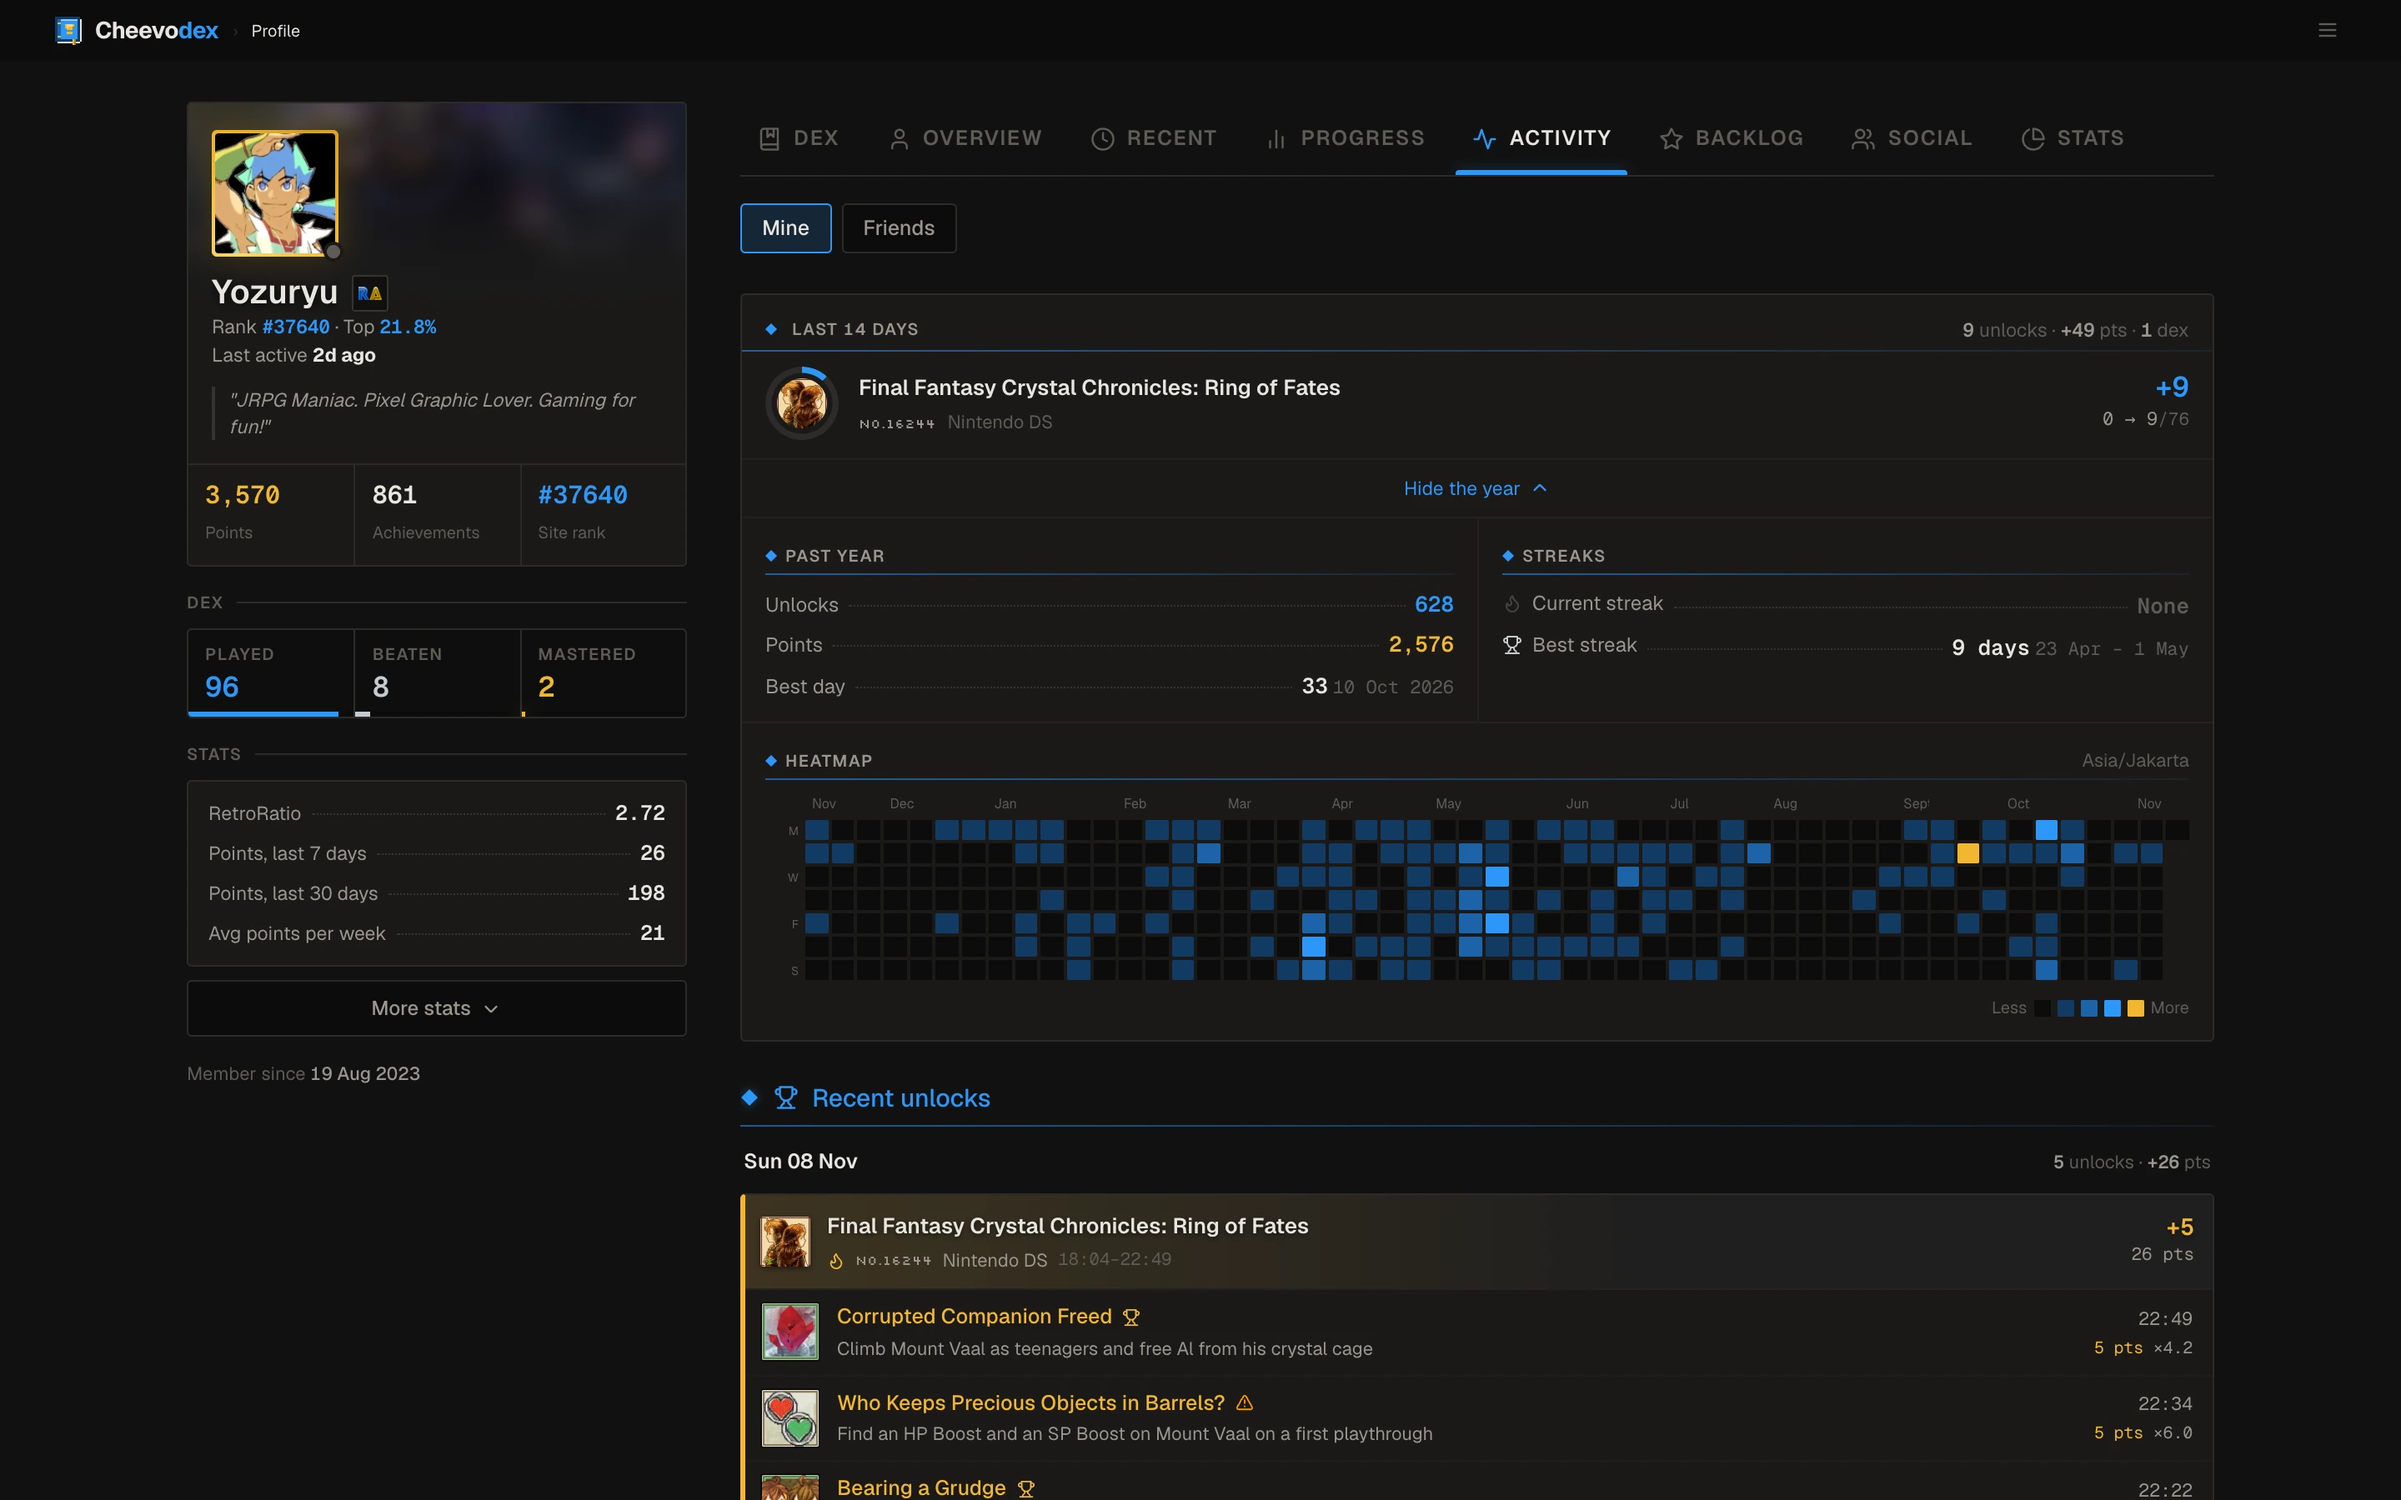
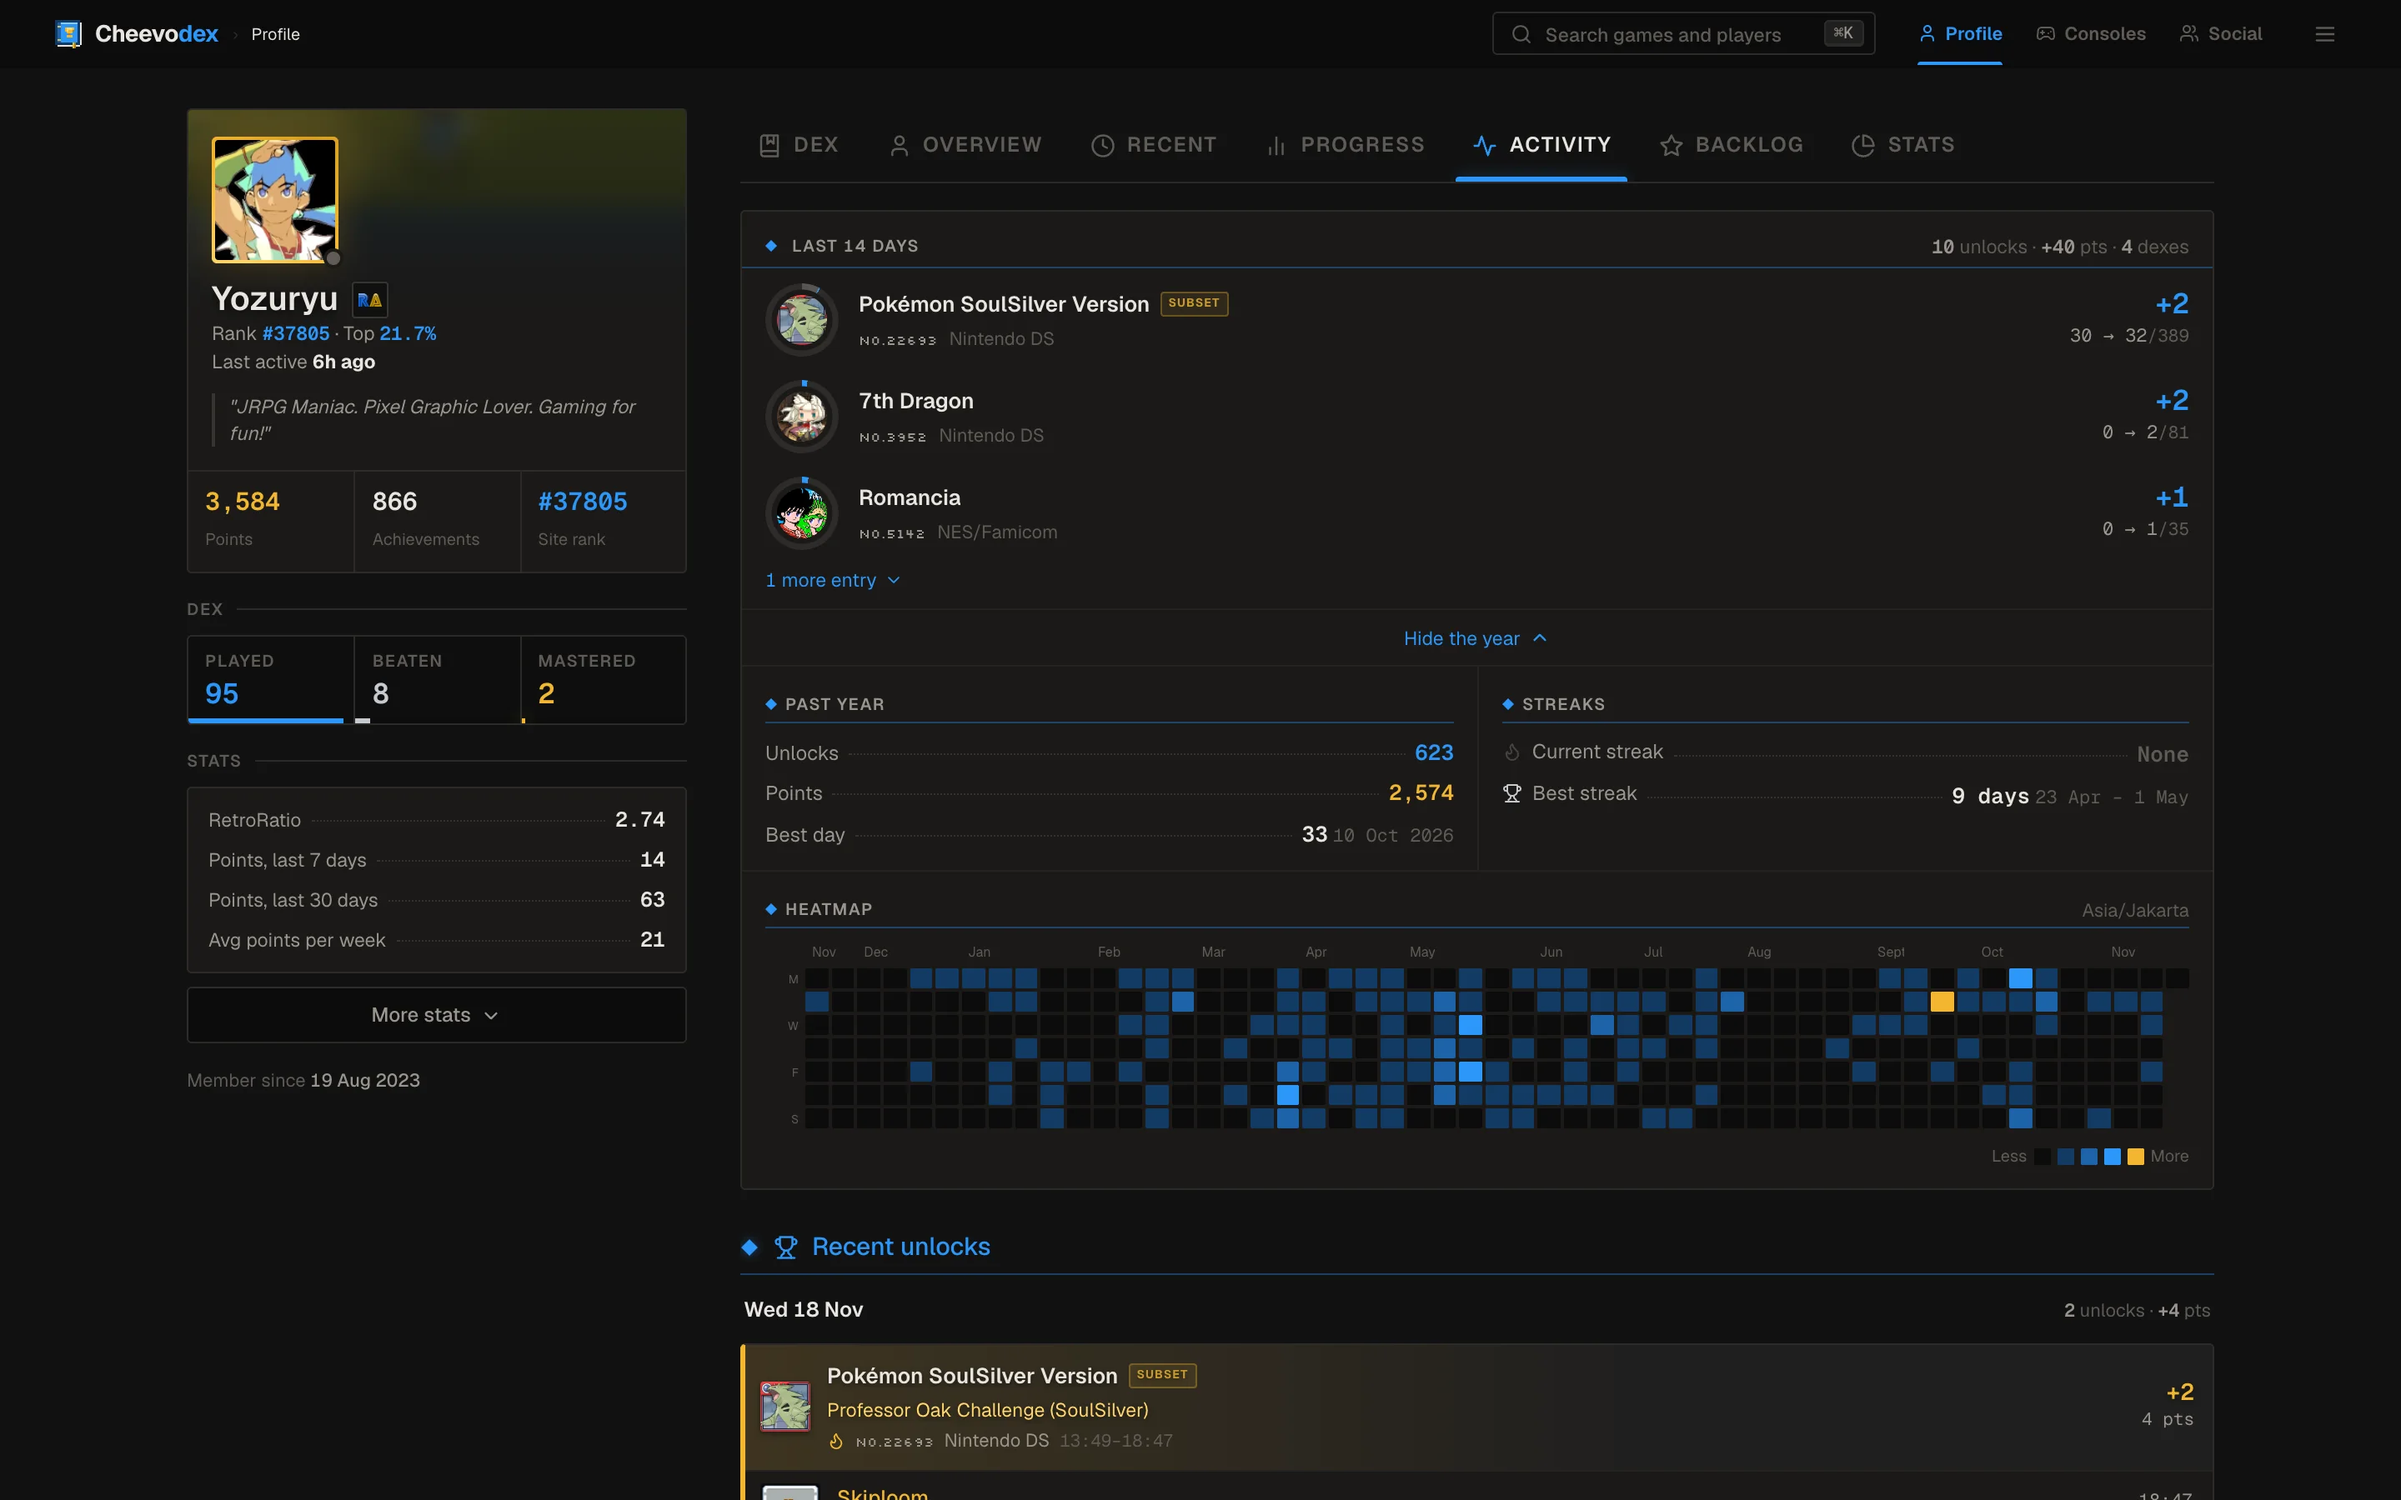
docs: README for the new Social, search and Consoles; fresh posters
- README feature list: Social with swipeable tabs and the you-vs-them
  compare, search over consoles too (ps2, gba) with removable recents,
  Consoles as saved one at a time, Install from the app's menu
- Posters rebuilt from fresh screenshots (new top bar and tabs, no
  Mine / Friends); the contents list says Consoles instead of Search
- posters.js: friends shots from the Social page, new compare / people /
  consoles / console shots, the friends poster placed from the layout the
  capture measures (d-friends.json) with labels kept apart, the installed
  Chrome used when there is one

Claude-Session: https://claude.ai/code/session_01S8fGnDU1gcFfcuuzHRjaTh

diff --git a/scripts/posters.js b/scripts/posters.js
@@ -18,8 +18,11 @@
  *   RA_API_KEY   Your RetroAchievements web API key (stays on this machine)
  *   RA_GAME_ID   A game you have progress in, for the dex record (default: your most recent game)
  *   ONLY         Comma-separated shot names to retake (default: all)
+ *   CHROME_PATH  The browser to drive (default: the installed Google Chrome, else puppeteer's download)
  *
- * Output: docs/images/shots/*.webp (screenshots, 2x) and docs/images/{hero,record,friends,year,contents}.jpg (posters)
+ * Output: docs/images/shots/*.webp (screenshots, 2x) and docs/images/{hero,record,friends,year,contents}.jpg (posters).
+ * d-friends also writes d-friends.json: where the friend row, the feed and the details the poster labels sit on the
+ * Social page (CSS pixels), so the friends poster follows the page's layout instead of fixed positions.
  */
 
 const puppeteer = require('puppeteer');
@@ -49,7 +52,9 @@ async function capture(browser) {
         ['dex', '/profile/?tab=dex', PHONE], ['activity', '/profile/?tab=activity', PHONE], ['backlog', '/profile/?tab=backlog', PHONE],
         ['overview', '/profile/?tab=overview', PHONE], ['d-dex', '/profile/?tab=dex', DESK], ['d-activity', '/profile/?tab=activity', DESK],
         ['d-stats', '/profile/?tab=stats', DESK], ['game', null, PHONE], ['d-game', null, DESK],
-        ['friends', '/profile/?tab=activity&view=friends', PHONE], ['d-friends', '/profile/?tab=activity&view=friends', DESK],
+        ['friends', '/social/', PHONE], ['d-friends', '/social/', DESK],
+        ['compare', '/social/?view=following', PHONE], ['social-people', '/social/?view=following', PHONE],
+        ['consoles', '/console/', PHONE], ['console', '/console/?id=21', PHONE], ['d-console', '/console/?id=21', DESK],
         ['stats', '/profile/?tab=stats', PHONE], ['d-backlog', '/profile/?tab=backlog', DESK], ['d-overview', '/profile/?tab=overview', DESK],
     ].filter(([name]) => !ONLY || ONLY.includes(name));
     fs.mkdirSync(SHOTS, { recursive: true });
@@ -67,8 +72,29 @@ async function capture(browser) {
         const url = BASE + (route || `/game/?id=${game}&tab=achievements`);
         await page.goto(url, { waitUntil: 'networkidle0', timeout: 120000 });
         await new Promise(r => setTimeout(r, 2500));
-        if (name.endsWith('friends')) await page.waitForFunction(() => !document.querySelector('.animate-spin'), { timeout: 240000 });   // every friend loaded
-        if (name === 'activity' || name === 'backlog' || name === 'friends' || name === 'stats') {   // phones: start at the tab's content, under the profile header
+        if (name.endsWith('friends')) await page.waitForFunction(() => !document.querySelector('.animate-spin') && document.querySelector('.fposts'), { timeout: 240000 });   // every friend loaded
+        if (name === 'd-friends') {   // where the poster's pieces and labels are, in CSS pixels
+            const layout = await page.evaluate(() => {
+                const r = el => { if (!el) return null; const b = el.getBoundingClientRect(); return [b.left + scrollX, b.top + scrollY, b.width, b.height]; };
+                const feed = document.querySelector('.fposts')?.closest('section');
+                const top = feed ? feed.getBoundingClientRect().top + scrollY : 0;
+                const within = sel => [...document.querySelectorAll(sel)].find(el => { const y = el.getBoundingClientRect().top + scrollY; return y > top && y < top + 420; });
+                const mid = (el, side) => { const b = el?.getBoundingClientRect(); return b ? [Math.round(side === 'r' ? b.right + scrollX : b.left + scrollX), Math.round(b.top + scrollY + b.height / 2)] : null; };
+                const hcRun = within('.frun.hc');
+                return { strip: r(document.querySelector('.fstrip')), feed: r(feed),
+                    pts: { avatar: mid(within('.fpost-av'), 'l'), hc: hcRun ? [Math.round(hcRun.getBoundingClientRect().left + scrollX), Math.round(hcRun.getBoundingClientRect().top + scrollY + Math.min(110, hcRun.getBoundingClientRect().height - 20))] : null,
+                        subset: mid(within('.frun-h .subset-tag'), 'r'), badge: mid(within('.frun-b img:last-of-type'), 'r') } };
+            });
+            fs.writeFileSync(path.join(SHOTS, 'd-friends.json'), JSON.stringify(layout, null, 1));
+        }
+        if (name === 'compare') {   // open Compare on the first person and wait for both players' progress
+            await page.waitForFunction(() => [...document.querySelectorAll('button')].some(b => b.textContent.includes('Compare')), { timeout: 120000 });
+            await page.evaluate(() => [...document.querySelectorAll('button')].find(b => b.textContent.includes('Compare')).click());
+            await page.waitForSelector('.cmpr', { timeout: 120000 });
+            await new Promise(r => setTimeout(r, 1500));
+        }
+        if (name === 'console' || name === 'd-console') await page.waitForSelector('.cn-game', { timeout: 240000 });   // the console's list saved and shown
+        if (name === 'activity' || name === 'backlog' || name === 'friends' || name === 'stats' || name === 'social-people') {   // phones: start at the tab's content, under the header
             await page.evaluate(() => { const t = document.querySelector('[role=tablist]'); if (t) window.scrollTo(0, t.getBoundingClientRect().top + scrollY - 8); });
             await new Promise(r => setTimeout(r, 800));
         }
@@ -185,6 +211,26 @@ ${parts.map(call).join('')}`;
 
     // The Friends timeline: who you follow in a row, then their evening as posts, with what each part means
     friends: () => {
+        // Placed from d-friends.json when the capture wrote one (the Social page); else the old fixed positions
+        const lf = path.join(SHOTS, 'd-friends.json');
+        const L = fs.existsSync(lf) ? JSON.parse(fs.readFileSync(lf, 'utf8')) : null;
+        if (L && L.strip && L.feed) {
+            const x0 = Math.min(L.strip[0], L.feed[0]), w = Math.max(L.strip[0] + L.strip[2], L.feed[0] + L.feed[2]) - x0;   // one column, one scale
+            const DW = 960, k = DW / (w * 2), X = 320, stripH = Math.round(L.strip[3] * 2 * k), Y = 168 + stripH + 22, FH = 860;
+            const at = p => p && [Math.round(X + (p[0] - x0) * 2 * k), Math.round(Y + (p[1] - L.feed[1]) * 2 * k)];
+            const P = L.pts || {}, [a, b, sb, g] = [at(P.avatar), at(P.hc), at(P.subset), at(P.badge)];
+            // Labels on one side need ~120px each: push a label down along its target's edge (a gold run's edge is tall)
+            if (a && b && b[1] - a[1] < 130) b[1] = a[1] + 130;
+            if (sb && g && Math.abs(g[1] - sb[1]) < 130) g[1] = Math.max(g[1], sb[1] + 130);
+            return `
+<div class="abs" style="left:0;right:0;top:52px;text-align:center"><h2 class="px" style="font-size:54px;line-height:1">Everyone you follow, on <span class="blue">one timeline.</span></h2></div>
+${crop('d-friends', x0 * 2, L.strip[1] * 2, w * 2, L.strip[3] * 2, DW, `left:${X}px;top:168px`)}
+${crop('d-friends', x0 * 2, L.feed[1] * 2, w * 2, FH, DW, `left:${X}px;top:${Y}px;-webkit-mask-image:linear-gradient(#000 80%,transparent)`)}
+${a ? callout('l', a[1], a[0], 'A colour each', "Worked out from their name, so it never changes.", 296) : ''}
+${b ? callout('l', b[1], b[0], 'Hardcore in gold', 'A gold run is hardcore, a grey one softcore.', 296) : ''}
+${sb ? callout('r', sb[1], sb[0], 'Subsets tagged', 'Subset sets say so.', 1304) : ''}
+${g ? callout('r', g[1], g[0], 'Every badge', 'Each run shows what it unlocked.', 1304) : ''}`;
+        }
         const X = 320, Y = 290, f = 960 / 1767 * 1.44;   // timeline crop origin; f turns screen points (1440 wide) into poster pixels
         const at = (dx, dy) => [Math.round(X + (dx - 618) * f), Math.round(Y + (dy - 530) * f)];
         const [ax, ay] = at(626, 555), [bx, by] = at(693, 880), [gx, gy] = at(1150, 708), [sx, sy] = at(974, 823);
@@ -211,7 +257,7 @@ ${crop('d-activity', 890, 886, 1767, 364, 1460, 'left:70px;top:510px')}`,
     // The contents page: every part as an index line, one of them open on a desktop screen
     contents: () => {
         const lines = [['The Dex', 'every game, numbered'], ['Records', 'ring, ledger, path'], ['Activity', 'the last 14 days', true],
-            ['Friends', 'one timeline'], ['Backlog', 'want to play'], ['Stats', 'the year in charts'], ['Search', 'every console']];
+            ['Friends', 'one timeline'], ['Backlog', 'want to play'], ['Stats', 'the year in charts'], ['Consoles', 'every system']];
         return `
 <img class="desk abs" src="${shot('d-activity')}" style="left:64px;top:132px;width:1000px">
 <div class="abs" style="left:1130px;right:64px;top:150px">
@@ -239,7 +285,10 @@ async function render(browser) {
 }
 
 (async () => {
-    const browser = await puppeteer.launch({ headless: 'new', protocolTimeout: 180000 });
+    // The installed Google Chrome when there is one (CHROME_PATH overrides), else puppeteer's own download
+    const SYS = '/Applications/Google Chrome.app/Contents/MacOS/Google Chrome';
+    const executablePath = process.env.CHROME_PATH || (fs.existsSync(SYS) ? SYS : undefined);
+    const browser = await puppeteer.launch({ headless: 'new', protocolTimeout: 180000, ...(executablePath ? { executablePath } : {}) });
     try {
         if (CAPTURE) await capture(browser);
         await render(browser);

diff --git a/README.md b/README.md
@@ -25,13 +25,13 @@ Cheevodex reads your [RetroAchievements](https://retroachievements.org) account 
 - **The Dex.** Every game you have played as a numbered entry with its progress ring. Search by name or dex number, filter to unbeaten, beaten or mastered, or read it console by console.
 - **Dex records.** Each game opens as a record: a completion ring (blue in progress, silver beaten, gold mastered), achievements, points and time played, and a progression path with one diamond per progression achievement. Then the achievements themselves, the leaderboards, the community and the supported hashes.
 - **Activity.** The games you moved in the last 14 days, every run of unlocks day by day, a year of streaks and a heatmap.
-- **Social.** Everyone you follow on one timeline, each in a colour worked out from their name, beside who you follow and who follows you. Compare any shared game side by side.
+- **Social.** Your friends' activity on one timeline, each friend in a colour worked out from their name, beside who you follow and who follows you; on a phone you swipe between them. Compare yourself with anyone: who leads in how many of the games you share, and each game's progress ring around both your faces.
 - **Backlog.** Your RetroAchievements want-to-play list as an index: the games you have started up next, then every game by console under A to Z, lit up once you start it, with the points on offer for the rest.
 - **Stats.** Streaks, points across the year, masteries by month, consoles and how rare your unlocks are.
-- **Search from anywhere.** One search over games, players and pages: the button in the middle of the bar on a phone, ⌘K or Ctrl+K on a computer. It forgives typos, puts your own games first and works on what Cheevodex has already loaded.
-- **Every console.** Browse any system's whole library, or search the full RetroAchievements catalog by name.
+- **Search from anywhere.** One search over games, players, consoles and pages: the button in the middle of the bar on a phone, ⌘K or Ctrl+K on a computer. It forgives typos, knows short console names like ps2 or gba, puts your own games first and works on what Cheevodex has already loaded. Swipe away the recent searches you no longer need.
+- **Every console.** Every system with its game count, saved one console at a time. Open one to browse its library and see how many of its sets you have played, or search every saved game at once.
 - **Anyone's dex.** Open any RetroAchievements username to read their dex and progress.
-- **An app on your phone.** Install it from your browser's menu; it opens full screen, works on phones and computers alike, and tells you when a new edition is out.
+- **An app on your phone.** Install it from your browser's menu, or from Cheevodex's own menu when your browser offers it; it opens full screen, works on phones and computers alike, and tells you when a new edition is out.
 
 <img src="docs/images/friends.jpg" alt="The Friends timeline: everyone you follow in a row, then their unlocks as posts, each friend in their own colour, hardcore runs in gold" width="100%">
 
